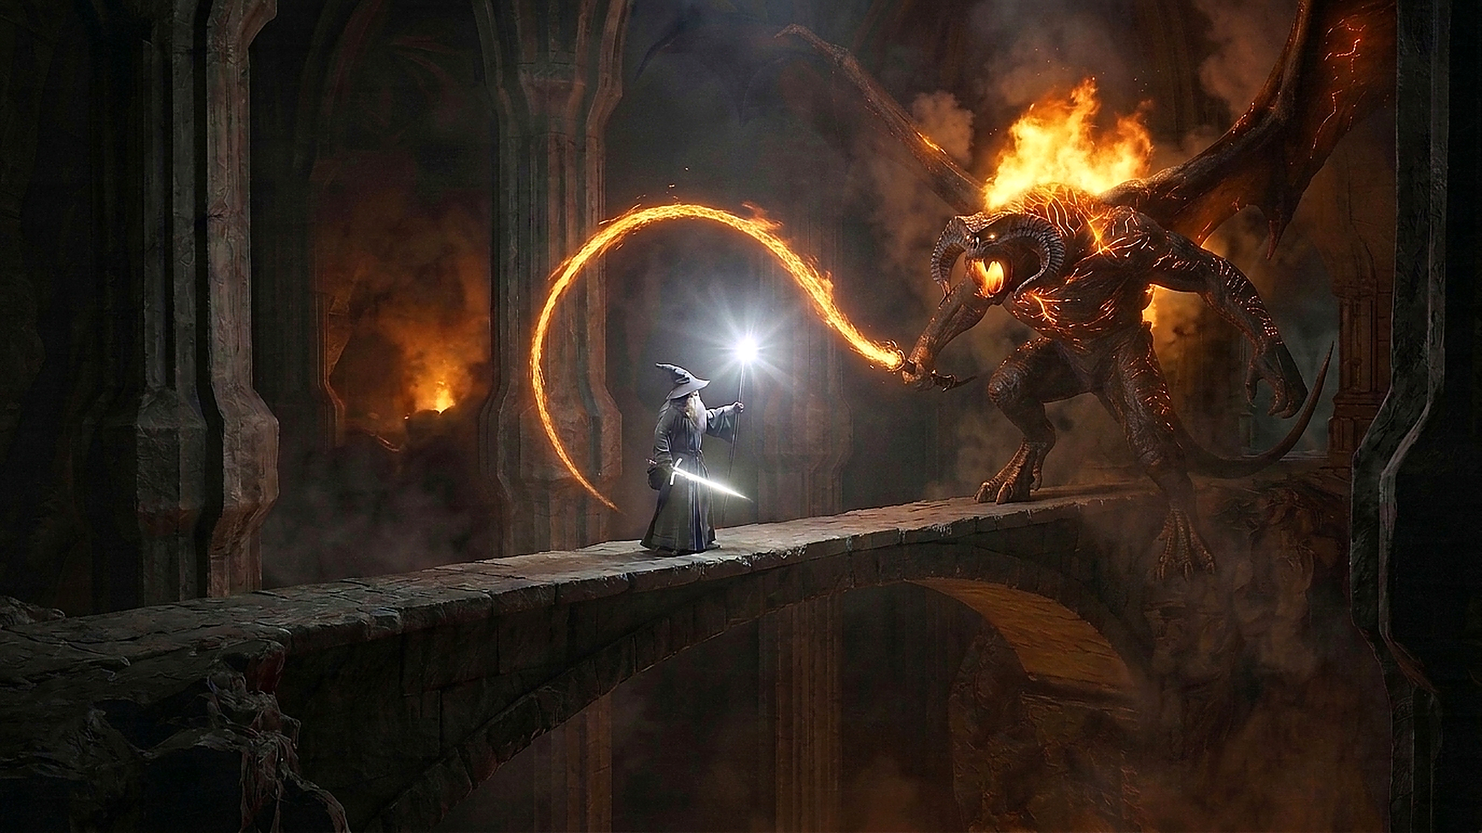
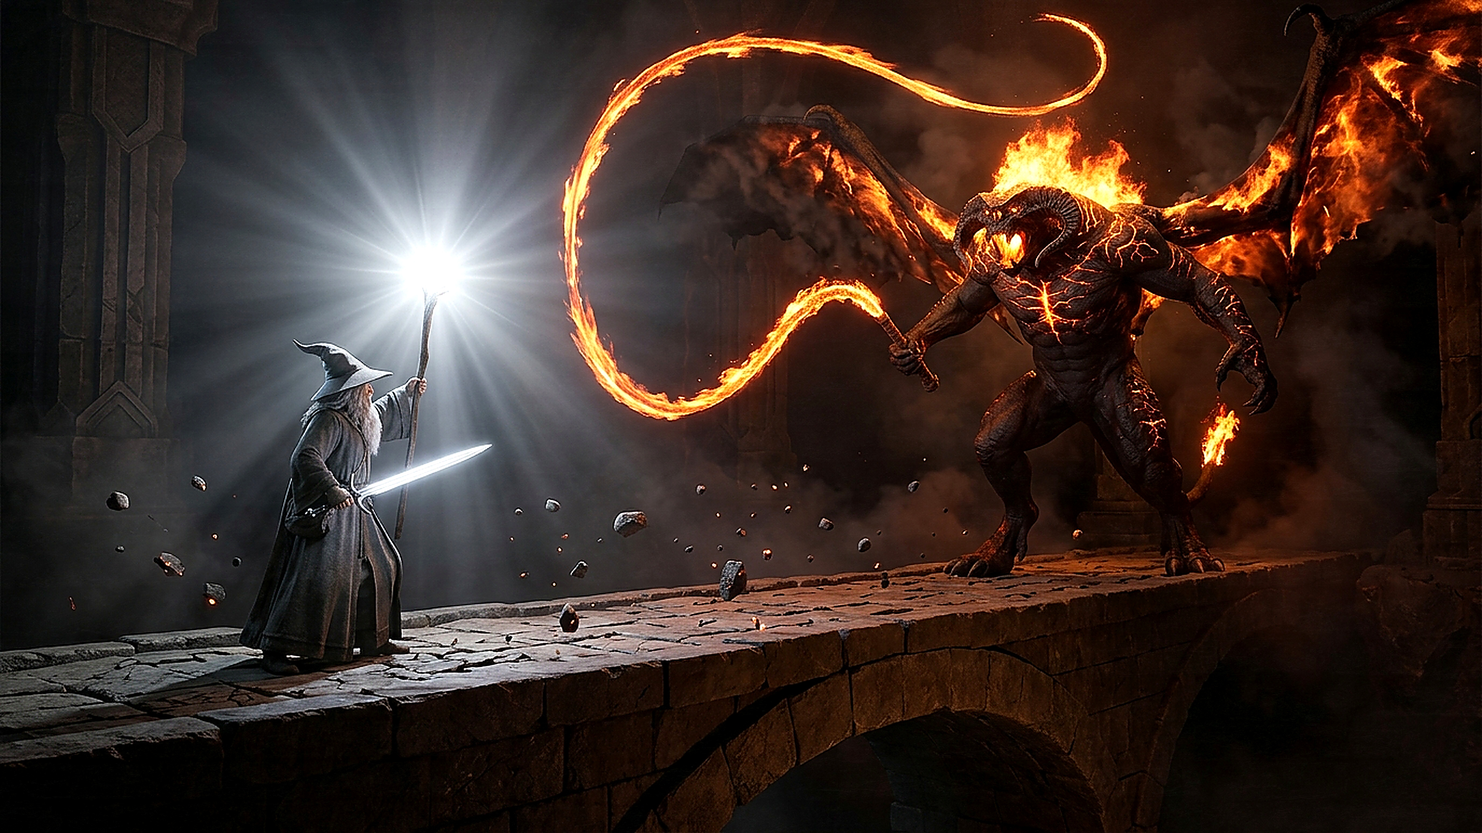
Upgrade Bridge of Khazad-dum picture with both Balrog feet on bridge floor and 3D hovering depth layers

diff --git a/Web dashboard/moria.js b/Web dashboard/moria.js
@@ -44,12 +44,25 @@ const descriptions={
 };
 const images=new Map(),audio=new MoriaAudio();let location='bridge',mode='cinema',active=true,playing=false,time=0,lastTime=0,raf=0,geometry=null,geometryPromise=null,loadVersion=0;
 let view={zoom:1,x:0,y:0},recorder=null,chunks=[],recordURL=null,recording=false;
+const hover3D={x:0,y:0,tx:0,ty:0};
 const sparks=Array.from({length:140},(_,i)=>({x:(Math.sin(i*341.3)*43758.5)%1,y:i/140,speed:.045+(i%7)*.009,size:.65+i%3}));
+const HOVER_STONES=Array.from({length:22},(_,i)=>({
+ x:.28+((i*37)%100)/100*.38,
+ y:.38+((i*53)%100)/100*.37,
+ z:.48+(i%6)*.16,
+ rx:.0045+(i%5)*.0022,
+ ry:.0035+(i%4)*.0018,
+ speed:1.35+(i%7)*.24,
+ phase:i*1.17,
+ rot:(i*47)%360*Math.PI/180,
+ rotSpeed:(i%2===0?1:-1)*(.18+(i%5)*.06),
+ magma:i%3===0
+}));
 function isInterior(loc=location){return loc==='hall'||loc==='chase'||loc==='bridge';}
 function isHall(loc=location){return loc==='hall'||loc==='chase';}
 function loadImage(key){
  if(images.has(key))return images.get(key);
- const promise=new Promise((resolve,reject)=>{const img=new Image();img.onload=()=>resolve(img);img.onerror=()=>reject(Error('Could not load the Moria scenery.'));img.src=`assets/moria/${descriptions[key].image}?v=20261104-cycle4k`;});images.set(key,promise);return promise;
+ const promise=new Promise((resolve,reject)=>{const img=new Image();img.onload=()=>resolve(img);img.onerror=()=>reject(Error('Could not load the Moria scenery.'));img.src=`assets/moria/${descriptions[key].image}?v=20261104-3dhover`;});images.set(key,promise);return promise;
 }
 let image=null,chaseImage=null,bridgeImage=null,hallImage=null;
 export const battleChapter=t=>t<8?'GANDALF LIGHTS THE HALL OF DURIN':t<16?'SURROUNDED BY THE GOBLINS OF MORIA':t<24?'THE BALROG OF MORGOTH SEEN AFAR':'THE STAND AT KHAZAD-DÛM';
@@ -101,6 +114,167 @@ function drawStaffRayOnCompany(ctx2d,sx,sy,px,py,w,h,intensity=1){
  ctx2d.fill();
  ctx2d.restore();
 }
+function draw3DHoverReliefPatch(ctx2d,img,rect,cxNorm,cyNorm,rxNorm,ryNorm,dx,dy,scaleBoost,rimColor){
+ const cx=rect.x+rect.w*cxNorm,cy=rect.y+rect.h*cyNorm;
+ const rx=rect.w*rxNorm,ry=rect.h*ryNorm;
+ ctx2d.save();
+ ctx2d.translate(cx+dx,cy+dy);
+ ctx2d.scale(scaleBoost,scaleBoost);
+ ctx2d.translate(-cx,-cy);
+ ctx2d.shadowColor='rgba(0,0,0,0.78)';
+ ctx2d.shadowBlur=Math.max(18,rect.w*.018);
+ ctx2d.shadowOffsetX=-dx*1.35;
+ ctx2d.shadowOffsetY=Math.max(8,rect.h*.012)-dy*1.15;
+ ctx2d.beginPath();
+ ctx2d.ellipse(cx,cy,rx,ry,0,0,Math.PI*2);
+ ctx2d.clip();
+ ctx2d.drawImage(img,rect.x,rect.y,rect.w,rect.h);
+ ctx2d.restore();
+ ctx2d.save();
+ ctx2d.globalCompositeOperation='screen';
+ const rim=ctx2d.createRadialGradient(cx+dx,cy+dy,Math.min(rx,ry)*.55,cx+dx,cy+dy,Math.max(rx,ry)*1.04);
+ rim.addColorStop(0,'transparent');
+ rim.addColorStop(.82,rimColor);
+ rim.addColorStop(1,'transparent');
+ ctx2d.fillStyle=rim;
+ ctx2d.beginPath();
+ ctx2d.ellipse(cx+dx,cy+dy,rx*1.04,ry*1.04,0,0,Math.PI*2);
+ ctx2d.fill();
+ ctx2d.restore();
+}
+function draw3DBridgeHoverScene(ctx2d,activeImg,rect,w,h,t,now,animate,pose){
+ hover3D.x+=(hover3D.tx-hover3D.x)*.12;
+ hover3D.y+=(hover3D.ty-hover3D.y)*.12;
+ const orbX=hover3D.x+(animate?Math.sin(now*1.05)*.32:0);
+ const orbY=hover3D.y+(animate?Math.cos(now*1.35)*.24:0);
+ const point=(x,y)=>[rect.x+rect.w*x,rect.y+rect.h*y];
+
+ // 1. 3D Hovering Pop-Out Layer: Standing Balrog (both feet on bridge floor) & overhead fiery whip
+ const balrogBob=animate?Math.sin(t*2.1)*h*.0055:0;
+ const balrogDx=orbX*w*.014,balrogDy=orbY*h*.010+balrogBob;
+ draw3DHoverReliefPatch(ctx2d,activeImg,rect,.735,.365,.235,.335,balrogDx,balrogDy,1.022,'rgba(255,98,18,0.16)');
+
+ // 3D floor-contact shadow & molten reflection directly under BOTH Balrog feet on the stone bridge floor
+ const [lfX,lfY]=point(.665,.680),[rfX,rfY]=point(.800,.675);
+ ctx2d.save();
+ ctx2d.fillStyle='rgba(3,5,8,0.68)';
+ ctx2d.beginPath();ctx2d.ellipse(lfX+balrogDx*.4,lfY+h*.008,w*.038,h*.013,0,0,Math.PI*2);ctx2d.fill();
+ ctx2d.beginPath();ctx2d.ellipse(rfX+balrogDx*.4,rfY+h*.008,w*.038,h*.013,0,0,Math.PI*2);ctx2d.fill();
+ ctx2d.globalCompositeOperation='screen';
+ glow(lfX+balrogDx*.5,lfY,h*.048,'#ff5a0c',.22+Math.sin(t*3.4)*.05);
+ glow(rfX+balrogDx*.5,rfY,h*.048,'#ff5a0c',.22+Math.cos(t*3.4)*.05);
+ ctx2d.restore();
+
+ // 2. 3D Hovering Pop-Out Layer: Gandalf the Grey with blazing staff & white-glowing Glamdring
+ const gandalfBob=animate?Math.cos(t*2.35)*h*.005:0;
+ const gandalfDx=orbX*w*.019,gandalfDy=orbY*h*.014+gandalfBob;
+ draw3DHoverReliefPatch(ctx2d,activeImg,rect,.248,.560,.115,.245,gandalfDx,gandalfDy,1.026,'rgba(205,235,255,0.18)');
+
+ const [bx,by]=[point(.735,.360)[0]+balrogDx,point(.735,.360)[1]+balrogDy];
+ const [sx,sy]=[point(.295,.335)[0]+gandalfDx,point(.295,.335)[1]+gandalfDy];
+ const [swordHiltX,swordHiltY]=[point(.235,.595)[0]+gandalfDx,point(.235,.595)[1]+gandalfDy];
+ const [swordTipX,swordTipY]=[point(.335,.535)[0]+gandalfDx,point(.335,.535)[1]+gandalfDy];
+ const [gFootX,gFootY]=[point(.225,.785)[0]+gandalfDx*.6,point(.225,.785)[1]+gandalfDy*.4];
+
+ // 3. 3D Perspective-Tilted Hovering Magical Shockwave Rings (around staff crystal & bridge floor)
+ ctx2d.save();
+ ctx2d.globalCompositeOperation='screen';
+ for(let ring=0;ring<2;ring++){
+  const pulse=((t*.65+ring*.5)%1);
+  const radX=w*(.045+pulse*.095),radY=radX*.32;
+  ctx2d.strokeStyle=`rgba(210,238,255,${(1-pulse)*.42})`;
+  ctx2d.lineWidth=Math.max(1.5,w*.0018*(1-pulse*.5));
+  ctx2d.beginPath();
+  ctx2d.ellipse(sx,sy,radX,radY,-.18+orbX*.08,0,Math.PI*2);
+  ctx2d.stroke();
+ }
+ // Hovering 3D rune-light ellipse on the stone bridge floor around Gandalf
+ ctx2d.strokeStyle=`rgba(195,230,255,${.28+Math.sin(t*2.6)*.08})`;
+ ctx2d.lineWidth=Math.max(2,w*.002);
+ ctx2d.beginPath();
+ ctx2d.ellipse(gFootX,gFootY,w*.072,h*.019,-.11,0,Math.PI*2);
+ ctx2d.stroke();
+
+ glow(bx,by,h*.34,'#ed590a',.17+Math.sin(t*3)*.035);
+ glow(sx,sy,h*.18,'#d8eeff',.22+(playing?Math.pow(Math.max(0,Math.sin(t*.7)),8)*.18:0));
+ drawSwordGlow(ctx2d,swordHiltX,swordHiltY,swordTipX,swordTipY,w,.68+Math.sin(t*3.6)*.09+(playing?pose.clash*.35:0));
+ ctx2d.restore();
+
+ // 4. 3D Hovering Levitating Bridge Stones & Magma Shards (multi-plane 3D parallax)
+ for(const st of HOVER_STONES){
+  const bob=animate?Math.sin(t*st.speed+st.phase)*h*.014*st.z:0;
+  const driftX=animate?Math.cos(t*(st.speed*.7)+st.phase)*w*.004*st.z:0;
+  const px=rect.x+rect.w*st.x+orbX*w*.034*st.z+driftX;
+  const py=rect.y+rect.h*st.y+orbY*h*.025*st.z+bob;
+  const rw=w*st.rx*st.z,rh=h*st.ry*st.z;
+  const ang=st.rot+(animate?t*st.rotSpeed:0);
+  ctx2d.save();
+  ctx2d.translate(px,py);
+  ctx2d.rotate(ang);
+  // 3D depth drop shadow beneath each hovering stone
+  ctx2d.fillStyle='rgba(0,0,0,0.58)';
+  ctx2d.beginPath();
+  ctx2d.ellipse(-orbX*6,rh*1.35,rw*.95,rh*.55,0,0,Math.PI*2);
+  ctx2d.fill();
+  // 3D faceted rock polygon
+  ctx2d.beginPath();
+  ctx2d.moveTo(-rw,-.35*rh);
+  ctx2d.lineTo(-.25*rw,-rh);
+  ctx2d.lineTo(.85*rw,-.55*rh);
+  ctx2d.lineTo(rw,.3*rh);
+  ctx2d.lineTo(.2*rw,rh);
+  ctx2d.lineTo(-.75*rw,.65*rh);
+  ctx2d.closePath();
+  const rockGrad=ctx2d.createLinearGradient(-rw,-rh,rw,rh);
+  rockGrad.addColorStop(0,'#b8d8f8'); // Gandalf staff white-blue rim light on left facet
+  rockGrad.addColorStop(.45,'#2a3038'); // Dark Moria stone core
+  rockGrad.addColorStop(1,st.magma?'#ff6a14':'#8c431e'); // Balrog fiery rim light on right facet
+  ctx2d.fillStyle=rockGrad;
+  ctx2d.fill();
+  ctx2d.lineWidth=Math.max(1,w*.0008*st.z);
+  ctx2d.strokeStyle=st.magma?'rgba(255,165,70,0.75)':'rgba(210,235,255,0.65)';
+  ctx2d.stroke();
+  ctx2d.restore();
+ }
+
+ if(animate){
+  ctx2d.save();
+  ctx2d.globalCompositeOperation='screen';
+  for(const s of sparks){
+   const progress=(s.y+t*s.speed)%1;
+   const depth=.5+(s.size/3.6)*.85;
+   const [baseX,baseY]=point(.22+Math.abs(s.x)*.68+Math.sin(t+s.y*12)*.018,.93-progress*.78);
+   const x=baseX+orbX*w*.028*depth,y=baseY+orbY*h*.020*depth;
+   ctx2d.globalAlpha=Math.sin(progress*Math.PI)*.85;
+   ctx2d.fillStyle=s.size>2?'#ffde92':'#e27322';
+   ctx2d.beginPath();ctx2d.ellipse(x,y,s.size*depth*w/1350,s.size*depth*h/680,0,0,Math.PI*2);ctx2d.fill();
+  }
+  for(let i=0;i<8;i++){const [x,y]=point(.64+i*.018,.44-Math.sin(t*1.3+i)*.015);glow(x+balrogDx,y+balrogDy,h*(.07+Math.sin(t*2+i)*.012),'#ff6609',.035);}
+  ctx2d.restore();
+ }
+
+ // 5. 3D Volumetric Fiery Whip Lash (hovering forward in 3D space)
+ const whipPulse=playing?Math.max(.35,pose.attack):.36+Math.sin(t*2.8)*.09;
+ if(whipPulse>.02){
+  const wx=orbX*w*.022,wy=orbY*h*.016+balrogBob*.8;
+  const [w0x,w0y]=[point(.615,.425)[0]+wx,point(.615,.425)[1]+wy];
+  const [w1x,w1y]=[point(.445,.505)[0]+wx*1.15,point(.445,.505)[1]+wy*1.15];
+  const [w2x,w2y]=[point(.380,.250)[0]+wx*1.25,point(.380,.250)[1]+wy*1.25];
+  const [w3x,w3y]=[point(.490,.045)[0]+wx*1.3,point(.490,.045)[1]+wy*1.3];
+  const [w4x,w4y]=[point(.730,.060)[0]+wx*1.2,point(.730,.060)[1]+wy*1.2];
+  ctx2d.save();ctx2d.globalCompositeOperation='screen';ctx2d.lineCap='round';
+  ctx2d.strokeStyle=`rgba(255,155,45,${.42*whipPulse})`;ctx2d.shadowColor='#ff5500';ctx2d.shadowBlur=22;ctx2d.lineWidth=w*.0036;
+  ctx2d.beginPath();ctx2d.moveTo(w0x,w0y);ctx2d.bezierCurveTo(w1x,w1y,w2x,w2y,w3x,w3y);ctx2d.quadraticCurveTo(w3x+w*.12,w3y-h*.01,w4x,w4y);ctx2d.stroke();
+  ctx2d.strokeStyle=`rgba(255,242,185,${.58*whipPulse})`;ctx2d.lineWidth=w*.0015;ctx2d.stroke();
+  ctx2d.restore();
+ }
+ if(playing){
+  ctx2d.save();ctx2d.globalCompositeOperation='screen';
+  glow(sx,sy,h*.26,'#dceaff',pose.staff*.5+pose.clash*.35);
+  ctx2d.restore();
+ }
+ if(pose.caption){ctx2d.save();ctx2d.font=`${Math.max(15,Math.round(w*.018))}px Georgia`;ctx2d.textAlign='center';ctx2d.fillStyle='#fff5df';ctx2d.shadowColor='#000';ctx2d.shadowBlur=8;ctx2d.fillText(pose.caption,w/2,h*.76);ctx2d.restore();}
+}
 function draw(now){
  const w=canvas.width,h=canvas.height;if(!w||!h)return;
  ctx.imageSmoothingEnabled=true;ctx.imageSmoothingQuality='high';
@@ -109,9 +283,10 @@ function draw(now){
  // When playing the 3D video on hall/chase, show the Goblin encirclement & distant Balrog chase; on bridge when paused, show Gandalf & Balrog on the bridge!
  const showChase=(isHall()&&(playing||time>0.2))||location==='chase';
  const activeImg=(showChase&&chaseImage)?chaseImage:image;
- const cinematic=interior?1+(playing?Math.sin(time/32*Math.PI)*.14:Math.sin(now*.25)*.015):1;
- const panX=view.x+(playing?Math.sin(time*.28)*.016:interior?Math.sin(now*.18)*.004:0);
- const panY=view.y+(playing?Math.cos(time*.55)*.006:0);
+ const isBridge3D=location==='bridge'&&!showChase;
+ const cinematic=interior?1+(playing?Math.sin(time/32*Math.PI)*.14:Math.sin(now*.25)*.015)+(isBridge3D?.025:0):1;
+ const panX=view.x+(playing?Math.sin(time*.28)*.016:interior?Math.sin(now*.18)*.004:0)-(isBridge3D?hover3D.x*.008:0);
+ const panY=view.y+(playing?Math.cos(time*.55)*.006:0)-(isBridge3D?hover3D.y*.006:0);
  const rect=imageRect(activeImg,w,h,view.zoom*cinematic,panX,panY);
  if(interior&&w/h<1.1){const scale=Math.max(w/activeImg.naturalWidth,h/activeImg.naturalHeight);ctx.filter='blur(20px)';ctx.drawImage(activeImg,(w-activeImg.naturalWidth*scale)/2,(h-activeImg.naturalHeight*scale)/2,activeImg.naturalWidth*scale,activeImg.naturalHeight*scale);ctx.filter='none';ctx.fillStyle='#07101bbf';ctx.fillRect(0,0,w,h);}
  ctx.drawImage(activeImg,rect.x,rect.y,rect.w,rect.h);
@@ -123,33 +298,9 @@ function draw(now){
   ctx.restore();
  }
  const point=(x,y)=>[rect.x+rect.w*x,rect.y+rect.h*y];
- if(location==='bridge'&&!showChase){
-  // Bridge of Khazad-dûm: Gandalf staff at (.502, .422), glowing white sword Glamdring (.453,.563)->(.503,.596), and standing Balrog (.715,.355) with fiery whip
-  const pose=battlePose(time),t=playing?time:now,[bx,by]=point(.715,.355),[sx,sy]=point(.502,.422);
-  const [swordHiltX,swordHiltY]=point(.453,.563),[swordTipX,swordTipY]=point(.503,.596);
-  ctx.globalCompositeOperation='screen';
-  glow(bx,by,h*.34,'#ed590a',.16+Math.sin(t*3)*.035);
-  glow(sx,sy,h*.16,'#d8eeff',.18+(playing?Math.pow(Math.max(0,Math.sin(t*.7)),8)*.18:0));
-  drawSwordGlow(ctx,swordHiltX,swordHiltY,swordTipX,swordTipY,w,.58+Math.sin(t*3.6)*.08+(playing?pose.clash*.35:0));
-  if(animate){
-   for(const s of sparks){const progress=(s.y+t*s.speed)%1;const [x,y]=point(.25+Math.abs(s.x)*.65+Math.sin(t+s.y*12)*.018,.93-progress*.7);ctx.globalAlpha=Math.sin(progress*Math.PI)*.8;ctx.fillStyle=s.size>2?'#ffde92':'#e27322';ctx.beginPath();ctx.ellipse(x,y,s.size*w/1400,s.size*h/700,0,0,Math.PI*2);ctx.fill();}
-   for(let i=0;i<8;i++){const [x,y]=point(.64+i*.018,.44-Math.sin(t*1.3+i)*.015);glow(x,y,h*(.07+Math.sin(t*2+i)*.012),'#ff6609',.03);}
-  }
-  ctx.globalAlpha=1;ctx.globalCompositeOperation='source-over';
-  // Trace and animate the actual fiery whip held by the standing Balrog (.610,.440) whipping high across (.540,.300)->(.440,.250)->(.360,.400)->(.415,.608)
-  const whipPulse=playing?Math.max(.35,pose.attack):.32+Math.sin(t*2.8)*.08;
-  if(whipPulse>.02){
-   const [w0x,w0y]=point(.610,.440),[w1x,w1y]=point(.540,.300),[w2x,w2y]=point(.440,.250),[w3x,w3y]=point(.360,.400),[w4x,w4y]=point(.415,.608);
-   ctx.save();ctx.globalCompositeOperation='screen';ctx.lineCap='round';
-   ctx.strokeStyle=`rgba(255,155,45,${.38*whipPulse})`;ctx.shadowColor='#ff5500';ctx.shadowBlur=18;ctx.lineWidth=w*.0032;
-   ctx.beginPath();ctx.moveTo(w0x,w0y);ctx.bezierCurveTo(w1x,w1y,w2x,w2y,w3x,w3y);ctx.quadraticCurveTo(w3x-w*.015,w4y-h*.04,w4x,w4y);ctx.stroke();
-   ctx.strokeStyle=`rgba(255,238,170,${.52*whipPulse})`;ctx.lineWidth=w*.0013;ctx.stroke();
-   ctx.restore();
-  }
-  if(playing){
-   glow(sx,sy,h*.26,'#dceaff',pose.staff*.5+pose.clash*.35);
-  }
-  if(pose.caption){ctx.save();ctx.font=`${Math.max(15,Math.round(w*.018))}px Georgia`;ctx.textAlign='center';ctx.fillStyle='#fff5df';ctx.shadowColor='#000';ctx.shadowBlur=8;ctx.fillText(pose.caption,w/2,h*.76);ctx.restore();}
+ if(isBridge3D){
+  const pose=battlePose(time),t=playing?time:now;
+  draw3DBridgeHoverScene(ctx,activeImg,rect,w,h,t,now,animate,pose);
  }else if(interior){
   // Hall of Durin alert watch (.755, .228) & Sprint escape from Balrog (.602, .225), casting rays onto the Company
   const pose=hallChasePose(showChase?time:0),t=playing?time:now;
@@ -232,8 +383,8 @@ function drawFilmOverlay(t){
  }
  const pt=(x,y)=>[rect.x+rect.w*x,rect.y+rect.h*y];
  const inHallIntro=t<3.2&&hallImage;
- const [sx,sy]=pt(useBridge?.502:inHallIntro?.755:.602,useBridge?.422:inHallIntro?.228:.225);
- const [bx,by]=pt(useBridge?.715:.500,useBridge?.355:.315);
+ const [sx,sy]=pt(useBridge?.295:inHallIntro?.755:.602,useBridge?.335:inHallIntro?.228:.225);
+ const [bx,by]=pt(useBridge?.735:.500,useBridge?.360:.315);
  const [px,py]=pt(inHallIntro?.44:.48,inHallIntro?.63:.65);
  fctx.save();fctx.globalCompositeOperation='screen';
  const sg=fctx.createRadialGradient(sx,sy,0,sx,sy,h*.24);
@@ -242,7 +393,7 @@ function drawFilmOverlay(t){
  if(!useBridge){
   drawStaffRayOnCompany(fctx,sx,sy,px,py,w,h,pose.staffLight);
  }else{
-  const [shx,shy]=pt(.453,.563),[stx,sty]=pt(.503,.596);
+  const [shx,shy]=pt(.235,.595),[stx,sty]=pt(.335,.535);
   drawSwordGlow(fctx,shx,shy,stx,sty,w,.62);
  }
  const bg=fctx.createRadialGradient(bx,by,0,bx,by,h*.32);
@@ -322,8 +473,23 @@ $('#timeline').addEventListener('input',event=>{if(recording)return;time=Number(
 async function enableSound(enabled){$('#sound').disabled=true;if(enabled)$('#sound').textContent='Loading sound…';try{await audio.setEnabled(enabled);audio.setLocation(isInterior()?'bridge':location);$('#sound').textContent=enabled?'Sound on':'Sound off';$('#sound').setAttribute('aria-pressed',String(enabled));}catch(error){$('#record-status').textContent=error.message;}finally{$('#sound').disabled=false;}}
 $('#sound').addEventListener('click',()=>enableSound(!audio.enabled));$('#volume').addEventListener('input',event=>audio.setVolume(Number(event.target.value)));
 const pointers=new Map();let drag=null,pinch=0;
+function update3DTilt(e){
+ if(mode!=='cinema'||reduced.matches)return;
+ const r=canvas.getBoundingClientRect();
+ if(!r.width||!r.height)return;
+ const nx=((e.clientX-r.left)/r.width-.5)*2;
+ const ny=((e.clientY-r.top)/r.height-.5)*2;
+ hover3D.tx=Math.max(-1,Math.min(1,nx));
+ hover3D.ty=Math.max(-1,Math.min(1,ny));
+ if(location==='bridge'){
+  canvas.style.transform=`perspective(1400px) rotateX(${(-hover3D.ty*3.2).toFixed(2)}deg) rotateY(${(hover3D.tx*4.2).toFixed(2)}deg) scale3d(1.016,1.016,1.016)`;
+ }else{
+  canvas.style.transform='';
+ }
+}
+canvas.addEventListener('pointerleave',()=>{hover3D.tx=0;hover3D.ty=0;canvas.style.transform='';});
 canvas.addEventListener('pointerdown',e=>{if(e.button!==0)return;canvas.setPointerCapture(e.pointerId);pointers.set(e.pointerId,{x:e.clientX,y:e.clientY});drag={x:e.clientX,y:e.clientY,vx:view.x,vy:view.y,moved:false,multi:pointers.size>1};if(pointers.size===2){const [a,b]=[...pointers.values()];pinch=Math.hypot(a.x-b.x,a.y-b.y);if(drag)drag.multi=true;}});
-canvas.addEventListener('pointermove',e=>{if(!pointers.has(e.pointerId))return;pointers.set(e.pointerId,{x:e.clientX,y:e.clientY});if(pointers.size===2){const [a,b]=[...pointers.values()],distance=Math.hypot(a.x-b.x,a.y-b.y);if(pinch)zoomBy(distance/pinch);pinch=distance;if(drag)drag.multi=true;}else if(drag){const dist=Math.hypot(e.clientX-drag.x,e.clientY-drag.y);if(dist>7)drag.moved=true;if(drag.moved){const rect=canvas.getBoundingClientRect();view.x=drag.vx+(e.clientX-drag.x)/rect.width;view.y=drag.vy+(e.clientY-drag.y)/rect.height;}}});
+canvas.addEventListener('pointermove',e=>{update3DTilt(e);if(!pointers.has(e.pointerId))return;pointers.set(e.pointerId,{x:e.clientX,y:e.clientY});if(pointers.size===2){const [a,b]=[...pointers.values()],distance=Math.hypot(a.x-b.x,a.y-b.y);if(pinch)zoomBy(distance/pinch);pinch=distance;if(drag)drag.multi=true;}else if(drag){const dist=Math.hypot(e.clientX-drag.x,e.clientY-drag.y);if(dist>7)drag.moved=true;if(drag.moved){const rect=canvas.getBoundingClientRect();view.x=drag.vx+(e.clientX-drag.x)/rect.width;view.y=drag.vy+(e.clientY-drag.y)/rect.height;}}});
 canvas.addEventListener('pointerup',e=>{const wasClick=drag&&!drag.moved&&!drag.multi&&pointers.size===1;pointers.delete(e.pointerId);drag=null;pinch=0;if(wasClick)cyclePicture(1);});
 for(const type of ['pointercancel','lostpointercapture'])canvas.addEventListener(type,e=>{pointers.delete(e.pointerId);drag=null;pinch=0;});
 canvas.addEventListener('wheel',e=>{e.preventDefault();zoomBy(Math.exp(-Math.max(-100,Math.min(100,e.deltaY))*.002));},{passive:false});

diff --git a/Web dashboard/moria.html b/Web dashboard/moria.html
@@ -1,5 +1,5 @@
 <!doctype html>
-<html lang="en"><head><meta charset="utf-8"><meta name="viewport" content="width=device-width,initial-scale=1"><meta name="theme-color" content="#0b1014"><link rel="icon" href="data:,q"><title>Moria · The Bridge of Khazad-dûm &amp; The Hall of Durin</title><link rel="stylesheet" href="moria.css?v=20261104-cycle4k"><script type="module" src="moria.js?v=20261104-cycle4k"></script></head>
+<html lang="en"><head><meta charset="utf-8"><meta name="viewport" content="width=device-width,initial-scale=1"><meta name="theme-color" content="#0b1014"><link rel="icon" href="data:,q"><title>Moria · The Bridge of Khazad-dûm &amp; The Hall of Durin</title><link rel="stylesheet" href="moria.css?v=20261104-3dhover"><script type="module" src="moria.js?v=20261104-3dhover"></script></head>
 <body><main id="moria-app">
 <header class="moria-header"><a href="explore.html" target="_top" class="wordmark">THE ATLAS <span>/</span> KHAZAD-DÛM</a><span class="edition">THE BRIDGE OF KHAZAD-DÛM &amp; HALL OF DURIN</span><button id="expand" aria-label="Enter fullscreen">⛶</button></header>
 <div class="moria-top-bar">
@@ -15,7 +15,7 @@
 <div class="vignette" aria-hidden="true"></div>
 <div id="loading" role="status">Entering the Misty Mountains…</div>
 <button id="gate-hotspot" class="gate-hotspot" hidden><span class="hotspot-ring">◇</span><strong>Doors of Durin</strong><small>Enter Moria →</small></button>
-<div id="portrait-overlay" role="dialog" aria-modal="true" aria-label="Moria pictures: Gandalf &amp; the Balrog on the Bridge and the Hall of Durin" hidden><button id="close-portrait" aria-label="Close pictures">×</button><div class="portrait-gallery"><figure data-pic="bridge" title="Click to cycle to next picture"><img src="assets/moria/bridge-battle.jpg?v=20261104-cycle4k" alt="Gandalf standing on the narrow stone Bridge of Khazad-dûm holding his glowing staff and white-glowing sword Glamdring against the colossal standing fiery Balrog of Morgoth wielding its fiery whip."><figcaption><strong>The Bridge of Khazad-dûm (4K)</strong> — Gandalf confronts the standing Balrog of Morgoth and its fiery whip with his blazing staff and white-glowing Glamdring on the narrow stone bridge above the abyss. <em>(Click picture to cycle →)</em></figcaption></figure><figure data-pic="hall" title="Click to cycle to next picture"><img src="assets/moria/hall-of-durin.jpg?v=20261104-cycle4k" alt="Gandalf and the alert Fellowship peering beyond the light of his raised staff for enemies and a passage in the colossal Hall of Durin."><figcaption><strong>The Hall of Durin (Dwarrowdelf · 4K)</strong> — Rays of light radiate from Gandalf’s raised staff onto the alert Fellowship as they peer into the darkness for enemies and a passage through the colossal pillared Hall of Durin. <em>(Click picture to cycle →)</em></figcaption></figure><figure data-pic="chase" title="Click to cycle to next picture"><img src="assets/moria/hall-goblin-chase.jpg?v=20261104-cycle4k" alt="Gandalf and his eight companions in a full sprint escaping the Balrog of Morgoth and Goblins of Moria through the colossal Hall of Durin."><figcaption><strong>Hall of Durin Chase (4K)</strong> — Gandalf and the 9 companions in a full sprint escaping the distant fiery Balrog of Morgoth and swarming Goblins of Moria, lit by the rays of Gandalf’s staff and white-glowing Glamdring. <em>(Click picture to cycle →)</em></figcaption></figure></div></div>
+<div id="portrait-overlay" role="dialog" aria-modal="true" aria-label="Moria pictures: Gandalf &amp; the Balrog on the Bridge and the Hall of Durin" hidden><button id="close-portrait" aria-label="Close pictures">×</button><div class="portrait-gallery"><figure data-pic="bridge" title="Click to cycle to next picture"><img src="assets/moria/bridge-battle.jpg?v=20261104-3dhover" alt="Gandalf standing on the stone Bridge of Khazad-dûm holding his glowing staff and white-glowing sword Glamdring against the colossal standing fiery Balrog of Morgoth with both feet on the bridge floor and 3D hovering shockwave stones."><figcaption><strong>The Bridge of Khazad-dûm (4K · 3D Hover)</strong> — Gandalf confronts the standing Balrog of Morgoth (both feet planted on the stone bridge floor) and its fiery whip with his blazing staff, white-glowing Glamdring, and 3D hovering shockwave stones. <em>(Click picture to cycle →)</em></figcaption></figure><figure data-pic="hall" title="Click to cycle to next picture"><img src="assets/moria/hall-of-durin.jpg?v=20261104-3dhover" alt="Gandalf and the alert Fellowship peering beyond the light of his raised staff for enemies and a passage in the colossal Hall of Durin."><figcaption><strong>The Hall of Durin (Dwarrowdelf · 4K)</strong> — Rays of light radiate from Gandalf’s raised staff onto the alert Fellowship as they peer into the darkness for enemies and a passage through the colossal pillared Hall of Durin. <em>(Click picture to cycle →)</em></figcaption></figure><figure data-pic="chase" title="Click to cycle to next picture"><img src="assets/moria/hall-goblin-chase.jpg?v=20261104-3dhover" alt="Gandalf and his eight companions in a full sprint escaping the Balrog of Morgoth and Goblins of Moria through the colossal Hall of Durin."><figcaption><strong>Hall of Durin Chase (4K)</strong> — Gandalf and the 9 companions in a full sprint escaping the distant fiery Balrog of Morgoth and swarming Goblins of Moria, lit by the rays of Gandalf’s staff and white-glowing Glamdring. <em>(Click picture to cycle →)</em></figcaption></figure></div></div>
 <div id="film-overlay" role="dialog" aria-modal="true" aria-label="Moria 3D video" hidden><button id="close-film" aria-label="Close video">×</button><div class="film-stage"><video id="battle-film" controls playsinline preload="none" poster="assets/moria/bridge-battle.jpg"><source src="assets/moria/bridge-battle.webm?v=20261103-hall-chase" type="video/webm"><track kind="captions" src="assets/moria/battle.en.vtt" srclang="en" label="English captions"><p>Your browser cannot play this clip. Download the video to watch it.</p></video><canvas id="film-canvas" aria-hidden="true"></canvas></div><p id="film-caption">Moria 3D Video · Gandalf &amp; the Fellowship running in the Hall of Durin (almost surrounded by Goblins, Balrog afar) &amp; the Stand on the Bridge of Khazad-dûm · 32s stereo sound</p></div></section>
 <div class="moria-control-deck">
  <p id="gesture-hint" class="gesture-hint">CLICK / TAP PICTURE FOR NEXT IN CYCLE · DRAG TO LOOK · SCROLL TO ZOOM · EXPLORE KHAZAD-DÛM</p>

diff --git a/Web dashboard/moria.css b/Web dashboard/moria.css
@@ -15,8 +15,8 @@ h1{font-family:'Cormorant Garamond',Georgia,serif;font-size:clamp(28px,3.4vw,44p
 .camera-controls button{width:34px;height:34px;border:0;background:none;font-size:18px}
 .camera-controls button+button{border-left:1px solid #ffffff20}
 /* Pure, unobstructed 16:9 picture & 3D stage */
-.experience{position:relative;width:100%;aspect-ratio:16/9;max-height:76vh;overflow:hidden;background:#05080c}
-.experience canvas{position:absolute;width:100%;height:100%;inset:0;display:block;touch-action:none;cursor:grab;object-fit:contain}
+.experience{position:relative;width:100%;aspect-ratio:16/9;max-height:76vh;overflow:hidden;background:#05080c;perspective:1400px;transform-style:preserve-3d}
+.experience canvas{position:absolute;width:100%;height:100%;inset:0;display:block;touch-action:none;cursor:grab;object-fit:contain;transition:transform .12s ease-out,filter .2s ease;will-change:transform}
 .experience canvas:active{cursor:grabbing}
 .vignette{display:none}
 /* Control deck sits cleanly below the picture/3D canvas — zero overlap on the image */
